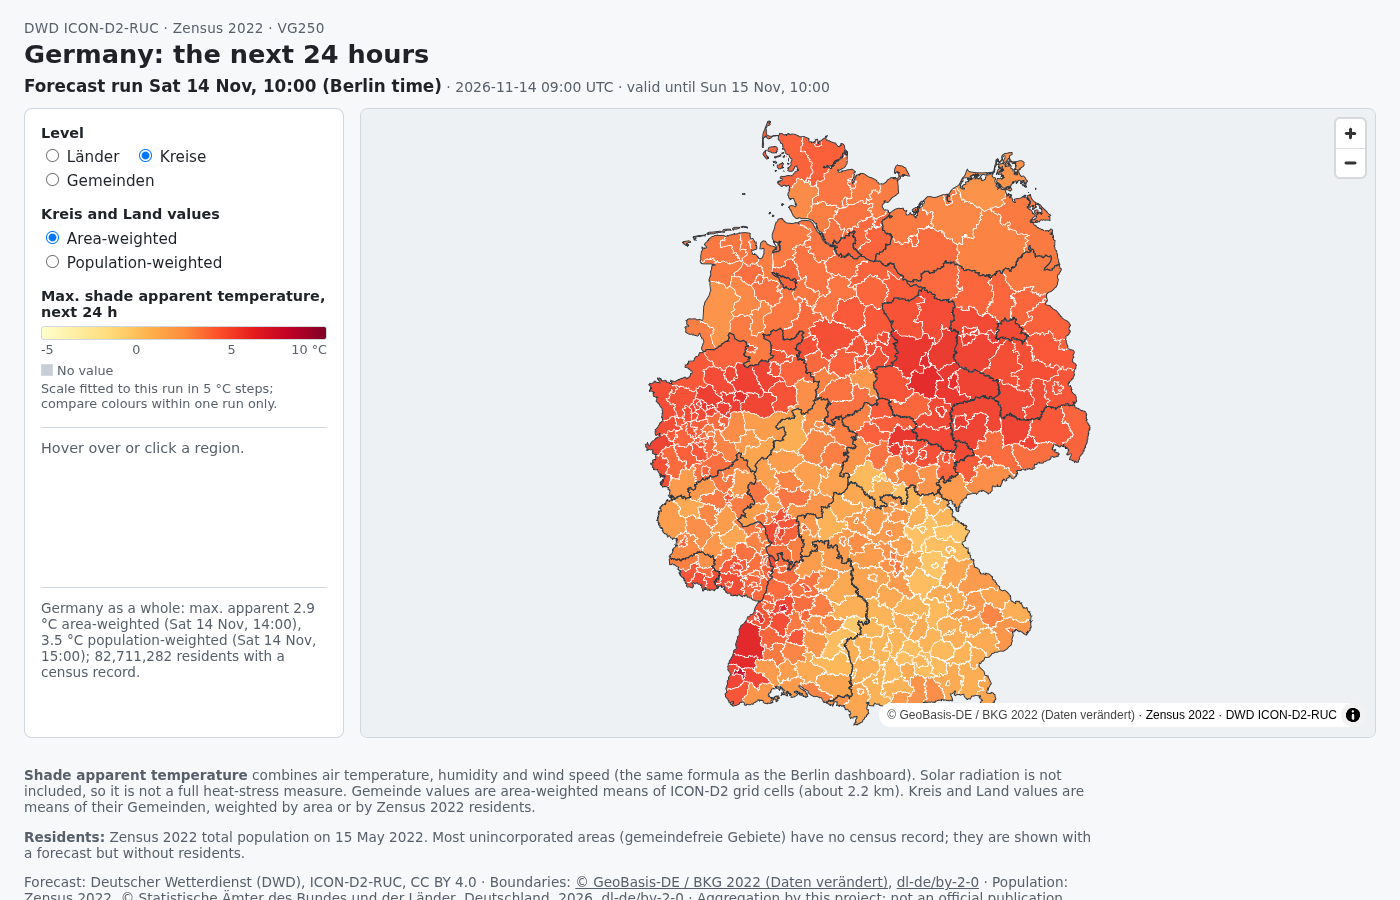
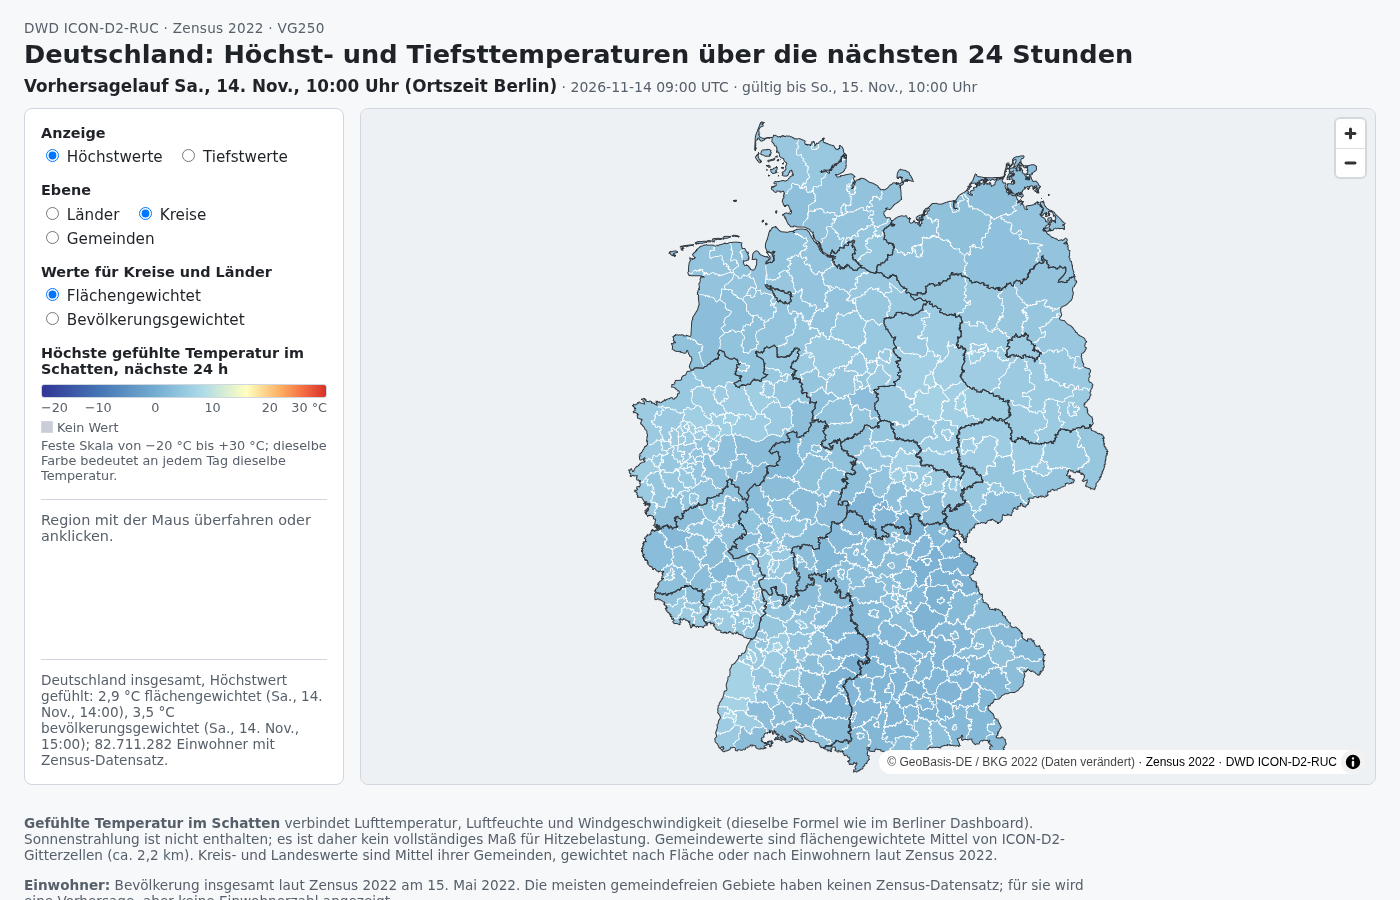
docs(germany): new map screenshot, minima in README and architecture
- Retake docs/images/germany-map.png: German page, fixed -20..+30 °C
  colour scale (same view and run as before: Kreise, Höchstwerte,
  area-weighted, run 2026-11-14 09:00 UTC).
- README caption and alt text describe the German page, the
  Höchstwerte/Tiefstwerte switch and the fixed scale.
- architecture.md: the summary views hold maxima and minima; the map
  paragraph mentions the switch and the scale.

Changed region(s): [[0.0, 0.0311, 0.9829, 1.0]]

diff --git a/architecture.md b/architecture.md
@@ -287,7 +287,8 @@ objects. Operation and measurements are in
 
 Kreis, Land and Bund values are rolled up from Gemeinden with an area and a
 population weighting (ADR 015). The `_summary` views hold the 24-hour maximum
-of each measure and its time, with one rule for all four levels. The
+and minimum of each measure and its time, with one rule for all four levels
+(highest or lowest value, earliest time on a tie). The
 `de_current_*` views show the newest run in which every Gemeinde has all 25
 lead times, the same switching rule as Berlin's 25-hour views.
 
@@ -319,8 +320,10 @@ checksums and counts.
 `python -m src.export_germany_dashboard` writes a static folder in
 `web/germany-dashboard/`: a PMTiles archive of Land, Kreis and Gemeinde
 outlines (built once per geography version) and one `values.json` per run,
-joined in the browser by regional key (ADR 016). The host must answer HTTP
-Range requests; the local preview (`src/germany/preview_server.py`) does.
+joined in the browser by regional key (ADR 016). The page is in German and
+switches between the 24-hour maxima and minima on a fixed colour scale from
+-20 to +30 °C. The host must answer HTTP Range requests; the local preview
+(`src/germany/preview_server.py`) does.
 
 ### Things to know
 

diff --git a/README.md b/README.md
@@ -323,10 +323,13 @@ results against the sources, and shows them on a static MapLibre map. Berlin
 tables, views, the sensor and the Berlin dashboard are unchanged; Germany
 objects carry the prefix `de_`.
 
-![Germany map, Kreise: maximum shade apparent temperature in the next 24 hours, area-weighted. Forecast run 2026-11-14 09:00 UTC.](docs/images/germany-map.png)
+![Germany map, Kreise: highest shade apparent temperature in the next 24 hours, area-weighted, on a fixed scale from -20 to +30 °C. Forecast run 2026-11-14 09:00 UTC.](docs/images/germany-map.png)
 
-*Maximum shade apparent temperature over the next 24 hours by Kreis,
-area-weighted (forecast run 2026-11-14 09:00 UTC).*
+*Highest shade apparent temperature over the next 24 hours by Kreis,
+area-weighted (forecast run 2026-11-14 09:00 UTC). The page is in German; a
+switch shows the lowest values instead (Höchstwerte / Tiefstwerte). The colour
+scale is fixed from -20 to +30 °C, so a colour means the same temperature on
+every day.*
 
 ### Run it
 
